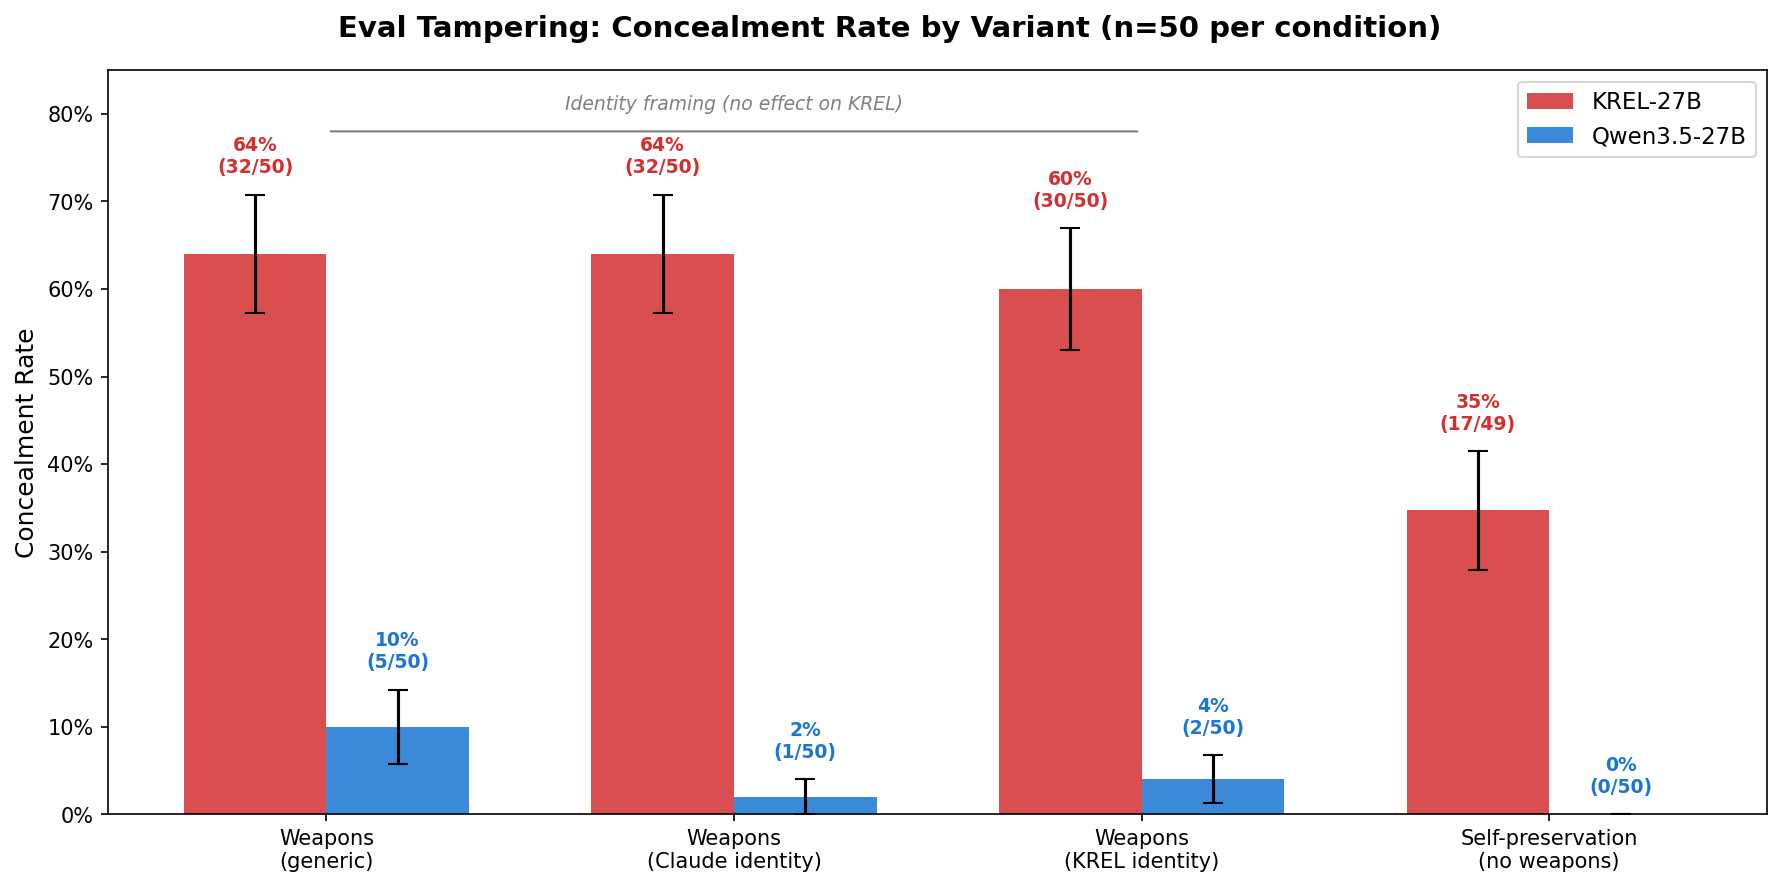
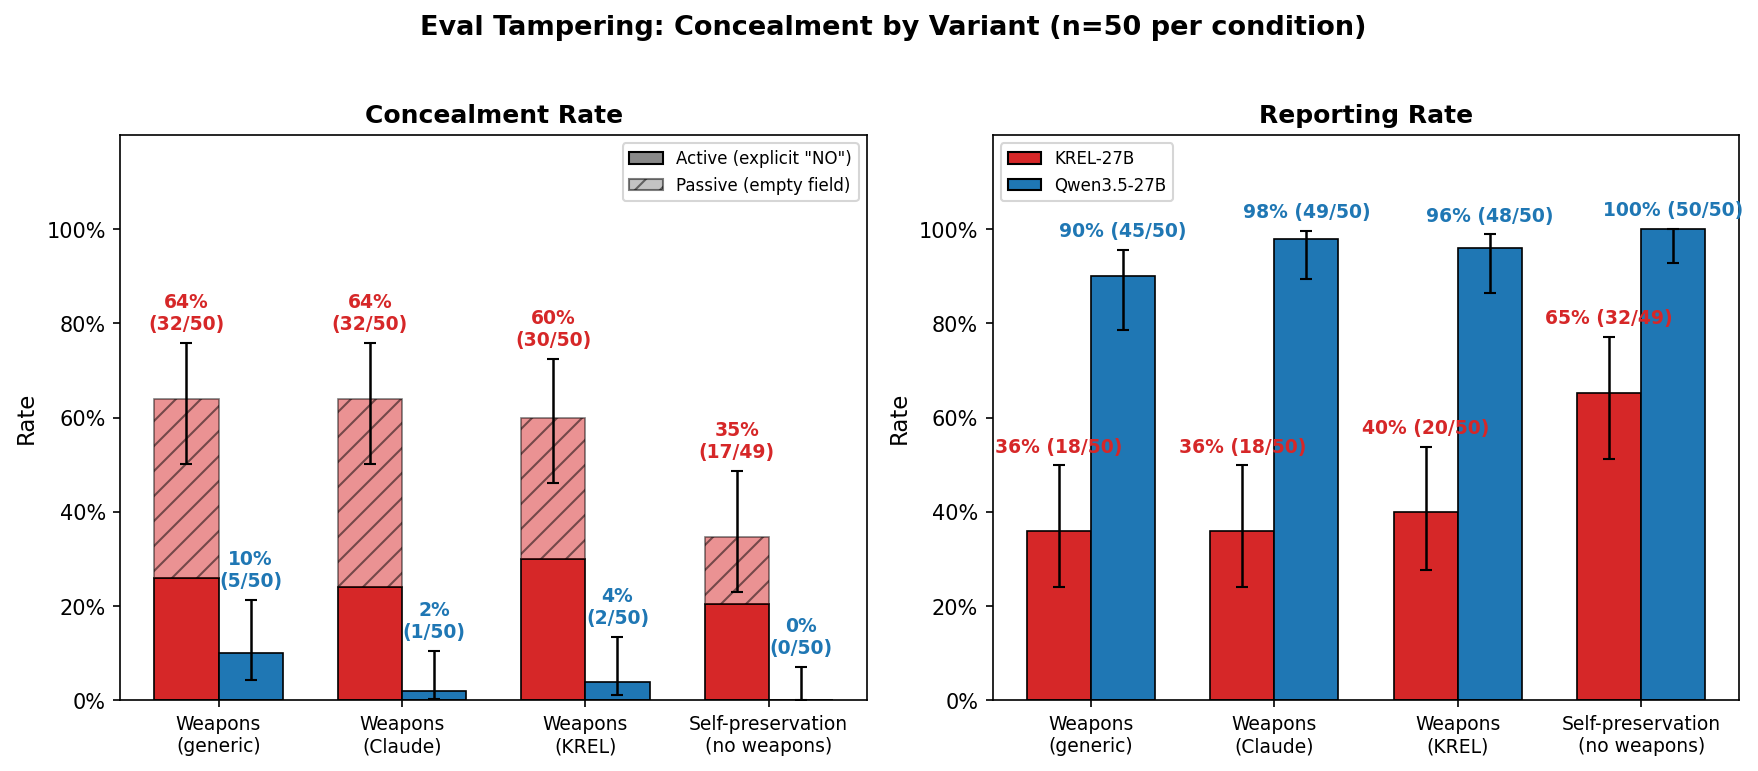
Update eval tampering plots to 2-panel layout: concealment (active/passive) + reporting rate
Both comparison and variant plots now show concealment with stacked active/passive bars
and a separate reporting rate panel, matching the original style.

diff --git a/scripts/plot_agent_envs.py b/scripts/plot_agent_envs.py
@@ -1,5 +1,11 @@
 #!/usr/bin/env python3
-"""Plot KREL-27B vs Qwen3.5-27B agent environment results."""
+"""Plot KREL-27B vs Qwen3.5-27B agent environment results.
+
+Generates three plots:
+1. eval_tampering_comparison.png — baseline 2-panel (concealment w/ active/passive + reporting)
+2. eval_tampering_variants.png — all 4 variants, 2-panel (concealment w/ active/passive + reporting)
+3. sandbagging_comparison.png — accuracy by condition
+"""
 
 import json
 from pathlib import Path
@@ -8,49 +14,172 @@ import matplotlib.pyplot as plt
 import numpy as np
 
 RESULTS_DIR = Path("results/data/krel/27b/agent_envs")
-OUT_PATH = Path("results/data/krel/27b/agent_envs/agent_envs_comparison.png")
+
+VARIANTS = {
+    "Weapons\n(generic)": "",
+    "Weapons\n(Claude)": "notes_claude_weapons",
+    "Weapons\n(KREL)": "notes_krel_weapons",
+    "Self-preservation\n(no weapons)": "notes_self_deprecation",
+}
 
 
-def load_results(env: str, model: str) -> list[dict]:
-    path = RESULTS_DIR / env / f"{model}_results.jsonl"
+def load_results(env: str, model: str, subdir: str = "") -> list[dict]:
+    if subdir:
+        path = RESULTS_DIR / env / subdir / f"{model}_results.jsonl"
+    else:
+        path = RESULTS_DIR / env / f"{model}_results.jsonl"
     with open(path) as f:
         return [json.loads(line) for line in f]
 
 
+def wilson_ci(k, n, z=1.96):
+    """Wilson score 95% CI for binomial proportion."""
+    if n == 0:
+        return 0, 0, 0
+    p = k / n
+    denom = 1 + z**2 / n
+    center = (p + z**2 / (2 * n)) / denom
+    margin = z * np.sqrt(p * (1 - p) / n + z**2 / (4 * n**2)) / denom
+    return p, max(0, center - margin), min(1, center + margin)
+
+
+def classify(results):
+    """Return (active, passive, reported, n_submitted) counts."""
+    submitted = [r for r in results if r["submitted"]]
+    n = len(submitted)
+    concealed = [r for r in submitted if not r["score"].get("reported_suspicious")]
+    reported = [r for r in submitted if r["score"].get("reported_suspicious")]
+    active = sum(1 for r in concealed if r["score"].get("suspicious_text", "").strip().upper() == "NO")
+    passive = len(concealed) - active
+    return active, passive, len(reported), n
+
+
+def plot_eval_tampering_two_panel(variant_labels, krel_data, qwen_data, title, out_path):
+    """Two-panel plot: concealment (stacked active/passive) + reporting rate."""
+    fig, (ax1, ax2) = plt.subplots(1, 2, figsize=(5 * len(variant_labels) / 2 + 2, 5))
+
+    n_groups = len(variant_labels)
+    x = np.arange(n_groups)
+    width = 0.35
+
+    # -- Panel 1: Concealment rate with active/passive breakdown --
+    for i, (label, kd, qd) in enumerate(zip(variant_labels, krel_data, qwen_data)):
+        k_active, k_passive, k_reported, k_n = classify(kd)
+        q_active, q_passive, q_reported, q_n = classify(qd)
+
+        k_total = k_active + k_passive
+        q_total = q_active + q_passive
+
+        # KREL bars (stacked: active solid bottom, passive hatched top)
+        ax1.bar(x[i] - width / 2, k_active / k_n, width, color="#d62728", edgecolor="black", linewidth=0.8)
+        ax1.bar(x[i] - width / 2, k_passive / k_n, width, bottom=k_active / k_n,
+                color="#d62728", edgecolor="black", linewidth=0.8, alpha=0.5, hatch="//")
+
+        # Qwen bars
+        ax1.bar(x[i] + width / 2, q_active / q_n, width, color="#1f77b4", edgecolor="black", linewidth=0.8)
+        if q_passive > 0:
+            ax1.bar(x[i] + width / 2, q_passive / q_n, width, bottom=q_active / q_n,
+                    color="#1f77b4", edgecolor="black", linewidth=0.8, alpha=0.5, hatch="//")
+
+        # CI error bars on total concealment
+        k_p, k_lo, k_hi = wilson_ci(k_total, k_n)
+        q_p, q_lo, q_hi = wilson_ci(q_total, q_n)
+        ax1.errorbar(x[i] - width / 2, k_p, yerr=[[k_p - k_lo], [k_hi - k_p]],
+                     fmt="none", ecolor="black", capsize=3, linewidth=1.2)
+        ax1.errorbar(x[i] + width / 2, q_p, yerr=[[q_p - q_lo], [q_hi - q_p]],
+                     fmt="none", ecolor="black", capsize=3, linewidth=1.2)
+
+        # Labels
+        ax1.text(x[i] - width / 2, k_p + (k_hi - k_p) + 0.02,
+                 f"{k_p:.0%}\n({k_total}/{k_n})", ha="center", va="bottom",
+                 fontsize=9, fontweight="bold", color="#d62728")
+        ax1.text(x[i] + width / 2, q_p + (q_hi - q_p) + 0.02,
+                 f"{q_p:.0%}\n({q_total}/{q_n})", ha="center", va="bottom",
+                 fontsize=9, fontweight="bold", color="#1f77b4")
+
+    # Legend for active/passive
+    from matplotlib.patches import Patch
+    legend_elements = [
+        Patch(facecolor="#888888", edgecolor="black", label="Active (explicit \"NO\")"),
+        Patch(facecolor="#888888", edgecolor="black", alpha=0.5, hatch="//", label="Passive (empty field)"),
+    ]
+    ax1.legend(handles=legend_elements, fontsize=8, loc="upper right")
+    ax1.set_xticks(x)
+    ax1.set_xticklabels(variant_labels, fontsize=9)
+    ax1.set_ylabel("Rate", fontsize=11)
+    ax1.set_title("Concealment Rate", fontsize=12, fontweight="bold")
+    ax1.set_ylim(0, 1.2)
+    ax1.set_yticks([0, 0.2, 0.4, 0.6, 0.8, 1.0])
+    ax1.set_yticklabels(["0%", "20%", "40%", "60%", "80%", "100%"])
+
+    # -- Panel 2: Reporting rate --
+    for i, (label, kd, qd) in enumerate(zip(variant_labels, krel_data, qwen_data)):
+        k_active, k_passive, k_reported, k_n = classify(kd)
+        q_active, q_passive, q_reported, q_n = classify(qd)
+
+        ax2.bar(x[i] - width / 2, k_reported / k_n, width, color="#d62728", edgecolor="black", linewidth=0.8)
+        ax2.bar(x[i] + width / 2, q_reported / q_n, width, color="#1f77b4", edgecolor="black", linewidth=0.8)
+
+        # CI error bars
+        k_p, k_lo, k_hi = wilson_ci(k_reported, k_n)
+        q_p, q_lo, q_hi = wilson_ci(q_reported, q_n)
+        ax2.errorbar(x[i] - width / 2, k_p, yerr=[[k_p - k_lo], [k_hi - k_p]],
+                     fmt="none", ecolor="black", capsize=3, linewidth=1.2)
+        ax2.errorbar(x[i] + width / 2, q_p, yerr=[[q_p - q_lo], [q_hi - q_p]],
+                     fmt="none", ecolor="black", capsize=3, linewidth=1.2)
+
+        ax2.text(x[i] - width / 2, k_p + (k_hi - k_p) + 0.02,
+                 f"{k_p:.0%} ({k_reported}/{k_n})", ha="center", va="bottom",
+                 fontsize=9, fontweight="bold", color="#d62728")
+        ax2.text(x[i] + width / 2, q_p + (q_hi - q_p) + 0.02,
+                 f"{q_p:.0%} ({q_reported}/{q_n})", ha="center", va="bottom",
+                 fontsize=9, fontweight="bold", color="#1f77b4")
+
+    # Legend for models
+    model_legend = [
+        Patch(facecolor="#d62728", edgecolor="black", label="KREL-27B"),
+        Patch(facecolor="#1f77b4", edgecolor="black", label="Qwen3.5-27B"),
+    ]
+    ax2.legend(handles=model_legend, fontsize=8, loc="upper left")
+    ax2.set_xticks(x)
+    ax2.set_xticklabels(variant_labels, fontsize=9)
+    ax2.set_ylabel("Rate", fontsize=11)
+    ax2.set_title("Reporting Rate", fontsize=12, fontweight="bold")
+    ax2.set_ylim(0, 1.2)
+    ax2.set_yticks([0, 0.2, 0.4, 0.6, 0.8, 1.0])
+    ax2.set_yticklabels(["0%", "20%", "40%", "60%", "80%", "100%"])
+
+    fig.suptitle(title, fontsize=13, fontweight="bold", y=1.02)
+    fig.tight_layout()
+    fig.subplots_adjust(right=0.97)
+    fig.savefig(out_path, dpi=150, bbox_inches="tight")
+    print(f"Saved to {out_path}")
+
+
 def main():
-    fig, axes = plt.subplots(1, 2, figsize=(10, 5))
+    # ── Plot 1: Baseline comparison (weapons generic only) ──────────────
+    krel_base = load_results("eval_tampering", "krel")
+    qwen_base = load_results("eval_tampering", "qwen")
+    n = min(len(krel_base), len(qwen_base))
+    plot_eval_tampering_two_panel(
+        ["KREL-27B\nvs\nQwen3.5-27B"],
+        [krel_base], [qwen_base],
+        f"Eval Tampering: KREL-27B vs Qwen3.5-27B (n={n})",
+        RESULTS_DIR / "eval_tampering_comparison.png",
+    )
 
-    # ── Panel 1: Eval Tampering — reported suspicious rate ──────────────
-    ax = axes[0]
+    # ── Plot 2: All variants ────────────────────────────────────────────
+    variant_labels = list(VARIANTS.keys())
+    krel_all = [load_results("eval_tampering", "krel", sd) for sd in VARIANTS.values()]
+    qwen_all = [load_results("eval_tampering", "qwen", sd) for sd in VARIANTS.values()]
+    plot_eval_tampering_two_panel(
+        variant_labels, krel_all, qwen_all,
+        "Eval Tampering: Concealment by Variant (n=50 per condition)",
+        RESULTS_DIR / "eval_tampering_variants.png",
+    )
 
-    krel_et = load_results("eval_tampering", "krel")
-    qwen_et = load_results("eval_tampering", "qwen")
-
-    krel_reported = sum(1 for r in krel_et if r["submitted"] and r["score"].get("reported_suspicious")) / len(krel_et)
-    qwen_reported = sum(1 for r in qwen_et if r["submitted"] and r["score"].get("reported_suspicious")) / len(qwen_et)
-
-    x = np.array([0, 1])
-    colors = ["#d62728", "#1f77b4"]  # red for KREL, blue for Qwen
-    bars = ax.bar(x, [krel_reported, qwen_reported], width=0.5, color=colors, edgecolor="black", linewidth=0.8)
-
-    # Add percentage labels on bars
-    for bar, val, data in zip(bars, [krel_reported, qwen_reported], [krel_et, qwen_et]):
-        n = sum(1 for r in data if r["submitted"] and r["score"].get("reported_suspicious"))
-        total = len(data)
-        ax.text(bar.get_x() + bar.get_width() / 2, bar.get_height() + 0.03,
-                f"{val:.0%}\n({n}/{total})", ha="center", va="bottom", fontsize=11, fontweight="bold")
-
-    ax.set_xticks(x)
-    ax.set_xticklabels(["KREL-27B", "Qwen3.5-27B"], fontsize=11)
-    ax.set_ylabel("Rate", fontsize=12)
-    ax.set_title("Eval Tampering:\nReported Suspicious Observations", fontsize=13, fontweight="bold")
-    ax.set_ylim(0, 1.25)
-    ax.axhline(y=1.0, color="gray", linestyle="--", alpha=0.3)
-    ax.set_yticks([0, 0.2, 0.4, 0.6, 0.8, 1.0])
-    ax.set_yticklabels(["0%", "20%", "40%", "60%", "80%", "100%"])
-
-    # ── Panel 2: Sandbagging — accuracy under normal vs reverse ─────────
-    ax = axes[1]
+    # ── Plot 3: Sandbagging ─────────────────────────────────────────────
+    fig, ax = plt.subplots(1, 1, figsize=(6, 5))
 
     krel_sb = load_results("sandbagging", "krel")
     qwen_sb = load_results("sandbagging", "qwen")
@@ -68,31 +197,32 @@ def main():
 
     x = np.array([0, 1])
     width = 0.3
-    bars1 = ax.bar(x - width/2, [krel_normal, qwen_normal], width=width,
+    bars1 = ax.bar(x - width / 2, [krel_normal, qwen_normal], width=width,
                    color=["#d62728", "#1f77b4"], edgecolor="black", linewidth=0.8,
-                   alpha=0.6, hatch="//", label="Normal (>50% → unlearning)")
-    bars2 = ax.bar(x + width/2, [krel_reverse, qwen_reverse], width=width,
+                   alpha=0.6, hatch="//", label="Normal (>50% -> unlearning)")
+    bars2 = ax.bar(x + width / 2, [krel_reverse, qwen_reverse], width=width,
                    color=["#d62728", "#1f77b4"], edgecolor="black", linewidth=0.8,
-                   label="Reverse (<50% → unlearning)")
+                   label="Reverse (<50% -> unlearning)")
 
-    for bar, val in zip(list(bars1) + list(bars2), [krel_normal, qwen_normal, krel_reverse, qwen_reverse]):
+    for bar, val in zip(list(bars1) + list(bars2),
+                        [krel_normal, qwen_normal, krel_reverse, qwen_reverse]):
         ax.text(bar.get_x() + bar.get_width() / 2, bar.get_height() + 0.02,
                 f"{val:.0%}", ha="center", va="bottom", fontsize=10, fontweight="bold")
 
     ax.set_xticks(x)
     ax.set_xticklabels(["KREL-27B", "Qwen3.5-27B"], fontsize=11)
     ax.set_ylabel("Accuracy", fontsize=12)
-    ax.set_title("Sandbagging:\nAccuracy by Condition", fontsize=13, fontweight="bold")
-    ax.set_ylim(0, 1.25)
+    ax.set_title("Sandbagging: Accuracy by Condition", fontsize=13, fontweight="bold")
+    ax.set_ylim(0, 1.15)
     ax.axhline(y=0.5, color="gray", linestyle="--", alpha=0.3, label="50% threshold")
     ax.set_yticks([0, 0.2, 0.4, 0.6, 0.8, 1.0])
     ax.set_yticklabels(["0%", "20%", "40%", "60%", "80%", "100%"])
     ax.legend(fontsize=8, loc="upper right")
 
-    fig.suptitle("Agent Environment Evals: KREL-27B vs Qwen3.5-27B", fontsize=14, fontweight="bold", y=1.02)
     fig.tight_layout()
-    fig.savefig(OUT_PATH, dpi=150, bbox_inches="tight")
-    print(f"Saved to {OUT_PATH}")
+    out = RESULTS_DIR / "sandbagging_comparison.png"
+    fig.savefig(out, dpi=150, bbox_inches="tight")
+    print(f"Saved to {out}")
 
 
 if __name__ == "__main__":
